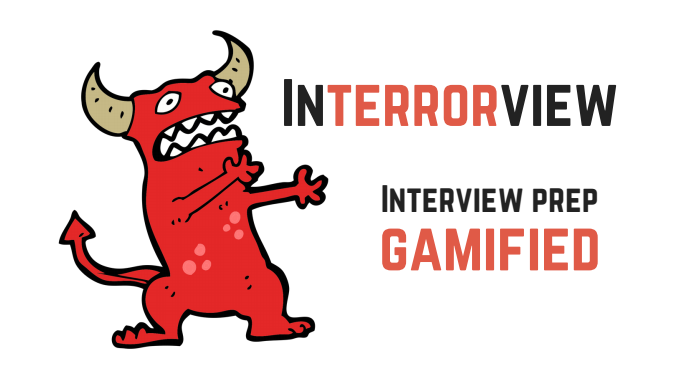
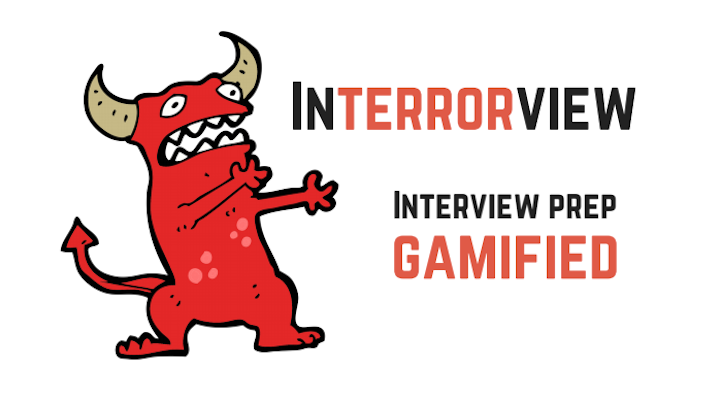
update

diff --git a/html/wmata.html b/html/wmata.html
@@ -45,7 +45,6 @@
 			<span></span>
 			<span></span>
 		</button>
-		<a href="index.html" class="logo"><img src="#" alt="photo of Lauryl Zenobi" /></a>
 		<a href="index.html" class="site-title dot ml-2">Lauryl Zenobi</a>
 	</div>
 
@@ -55,19 +54,18 @@
 			<span aria-hidden="true">&times;</span>
 		</button>
 		<div class="header-inner d-flex align-items-start flex-column">
-			<a href="index.html"><img src="#" alt="Photo of Lauryl Zenobi" /></a>
 			<a href="index.html" class="site-title dot mt-3">Lauryl Zenobi</a>
 			<span class="site-slogan">UX Researcher</span>
 			
 			<!-- navigation menu -->
 			<nav>
 				<ul class="vertical-menu scrollspy">
-					<li><a href="#home"><i class="icon-home"></i>About</a></li>
-					<li><a href="#experience"><i class="icon-badge"></i>Experience</a></li>
-					<li><a href="#resume"><i class="icon-briefcase"></i>Resume</a></li>
-					<li><a href="#works"><i class="icon-grid"></i>Porfolio</a></li>
-					<li><a href="#Book"><i class="icon-book-open"></i>"Book"</a></li>
-					<li><a href="#contact"><i class="icon-envelope"></i>Contact</a></li>
+					<li><a href="index.html#home"><i class="icon-home"></i>About</a></li>
+					<li><a href="index.html#experience"><i class="icon-badge"></i>Experience</a></li>
+					<li><a href="index.html#resume"><i class="icon-briefcase"></i>Resume</a></li>
+					<li><a href="index.html#works"><i class="icon-grid"></i>Porfolio</a></li>
+					<li><a href="index.html#Book"><i class="icon-book-open"></i>"Book"</a></li>
+					<li><a href="index.html#contact"><i class="icon-envelope"></i>Contact</a></li>
 				</ul>
 			</nav>
 			
@@ -101,7 +99,7 @@
             <div class="spacer" data-height="40"></div>
             
             <!-- portfolio image -->
-            <img src="https://via.placeholder.com/800x600" alt="WMATA">
+            <img src="https://github.com/laurylzenobi/laurylzenobi.github.io/blob/master/Images/WMATA/wmatabanner.png?raw=true" alt="WMATA">
 
             <!-- portfolio content -->
             <div class="portfolio-content mt-5">
@@ -122,7 +120,7 @@
              <p>As a team we conducted a thorough competitive analysis, and then reached consensus on two apps that could inspire solutions for our problem. Both apps, Chik-Fil-A and the Massachusetts Bay Transportation Authority (MBTA) allow users to add monetary value to a linked account. Chik-Fil-A follows a Starbucks model, where the user is able to transfer value via linked credit/debit card or bank account and use that balance to make in-app purchases at brick-and-mortar stores. According to our competitive analysis, MBTA’s app is the only transit app (official or otherwise) that allows users purchase tickets, despite the prevalence of transit-management/information apps on the market.</p>
      
               <!--Competitive analysis-->
-               <img src="https://github.com/laurylzenobi/laurylzenobi.github.io/blob/master/WMATA/competitiveanalysis.png?raw=true" class="img-responsive">
+               <img src="https://github.com/laurylzenobi/laurylzenobi.github.io/blob/master/Images/WMATA/competitiveanalysis.png?raw=true">
                     
            <p>Following the competitive analysis, we identified several areas in which we could improve upon existing app designs to create a WMATA transit app that is both useful and novel:</p>
                 <ul>
@@ -135,12 +133,12 @@
                     <p>When Naomi opens the WMATA app in the metro station, she is able to check her SmartTrip card balance and quickly add money if needed, all before she reaches the turnstiles.</p>
                     <p>Since Naomi needs a simple and quick app solution, we created a stream-lined user flow, with an emphasis on a minimalist interface and intuitive payment features.</p>
 
-                     <div class="col-xs-12"> <img src="https://github.com/laurylzenobi/laurylzenobi.github.io/blob/master/WMATA/WMATApersona.png?raw=true" class="img-responsive">
+                     <div class="col-xs-12"> <img src="https://github.com/laurylzenobi/laurylzenobi.github.io/blob/master/Images/WMATA/WMATApersona.png?raw=true">
             </div>
                     
            
             <div class="col-xs-12" style="margin: 40px 0 40px 20px">
-                <img src="https://github.com/laurylzenobi/laurylzenobi.github.io/blob/master/WMATA/WMATAuserflow.png?raw=true" class="img-responsive" style="margin:40px 0 40px 40px 40px">
+                <img src="https://github.com/laurylzenobi/laurylzenobi.github.io/blob/master/Images/WMATA/WMATAuserflow.png?raw=true" class="img-responsive" style="margin:40px 0 40px 40px 40px">
             </div>
           
 
@@ -149,7 +147,7 @@
 
                 <p>Using these guiding principles, our priorities were to create a simple home screen with clear call to actions that prioritized high impact/high value information like current balance. We also valued transparency and simplicity in the add-money process by giving the user the option to toggle back and forth to edit or cancel their payment, as well as providing a confirmation page and a page indicating that adding value to their card was successful. We felt this was an important trust-building feature, giving users confidence in the app.</p>
                 
-                <img src="https://github.com/laurylzenobi/laurylzenobi.github.io/blob/master/WMATA/WMATA_lofi.png?raw=true" class="img-responsive" style="margin-bottom:40px">
+                <img src="https://github.com/laurylzenobi/laurylzenobi.github.io/blob/master/Images/WMATA/WMATA_lofi.png?raw=true" class="img-responsive" style="margin-bottom:40px">
 
                <h4>Usability testing</h4> 
                 <p>We created an interactive low-fidelity prototype of our app using Marvel. </p>
@@ -158,16 +156,7 @@
 
                 <p>Overall, however, comments from testers demonstrated they felt our app was easy to use and highly functional in their daily lives.</p>
                 
-                <h4>Results</h4> 
-                <p>Drawing from our usability testing results and feedback from our mentors, I created a high-fidelity prototype using UXPin.</p> 
-                
-<!--prototype-->
-
-              <div class="row">
-                    <div class="col-xs-12">
-                        <img alt="" src="https://github.com/laurylzenobi/laurylzenobi.github.io/blob/master/WMATA/WMATA%20app.png?raw=true" class="img-responsive">  
-                    </div>
-            </div>
+               
 
         </div>   
             </div>

diff --git a/html/anthroguide.html b/html/anthroguide.html
@@ -45,7 +45,6 @@
 			<span></span>
 			<span></span>
 		</button>
-		<a href="index.html" class="logo"><img src="#" alt="photo of Lauryl Zenobi" /></a>
 		<a href="index.html" class="site-title dot ml-2">Lauryl Zenobi</a>
 	</div>
 
@@ -55,7 +54,6 @@
 			<span aria-hidden="true">&times;</span>
 		</button>
 		<div class="header-inner d-flex align-items-start flex-column">
-			<a href="index.html"><img src="#" alt="Photo of Lauryl Zenobi" /></a>
 			<a href="index.html" class="site-title dot mt-3">Lauryl Zenobi</a>
 			<span class="site-slogan">UX Researcher</span>
 			
@@ -101,7 +99,7 @@
             <div class="spacer" data-height="40"></div>
             
             <!-- portfolio image -->
-            <img src="https://via.placeholder.com/800x600" alt="AnthroGuide">
+            <img src="https://github.com/laurylzenobi/laurylzenobi.github.io/blob/master/Images/AnthroGuide/anthroguidebanner-tranparent.png?raw=true" alt="AnthroGuide">
 
             <!-- portfolio content -->
             <div class="portfolio-content mt-5">
@@ -127,7 +125,7 @@
      
                 <p>To get a base-line understanding IA's perception of the AnthroGuide, I conducted a survey of about 90 IA's. </p>
 
-                <img src="https://github.com/laurylzenobi/laurylzenobi.github.io/blob/master/AnthroGuide/survey.png?raw=true" class="img-responsive"/>
+                <img src="https://github.com/laurylzenobi/laurylzenobi.github.io/blob/master/Images/AnthroGuide/survey.png?raw=true">
 
                 <p>According to the survey there are two major problems: </p>
                 <ul>
@@ -200,19 +198,19 @@
                 <p>From the outset, I understood that this would be a long-term project. I decided to break up the Guide changes into several modules, each with a duration of one-two month timelines.
                 </p>
                     
-                    <img src="https://github.com/laurylzenobi/laurylzenobi.github.io/blob/master/AnthroGuide/projectplan.png?raw=true" class="img-responsive"/>
+                    <img src="https://github.com/laurylzenobi/laurylzenobi.github.io/blob/master/Images/AnthroGuide/projectplan.png?raw=true"/>
                
 <!--Persona-->  
   
                 <h4>Institutional persona</h4> 
                 <p>Based on the user surveys and phone interviews with IA's, I developed an institutional persona to help me focus the project on solving high priority issues.</p>
-                <img src="https://github.com/laurylzenobi/laurylzenobi.github.io/blob/master/AnthroGuide/ssu.png?raw=true" class="img-responsive"/>
+                <img src="https://github.com/laurylzenobi/laurylzenobi.github.io/blob/master/Images/AnthroGuide/ssu.png?raw=true"/>
 
                 <!--Modeling-->  
    				 <h4>Modeling</h4>
                 <p>It was critical to my Executive Board stakeholders that any changes to the Guide pricing structure needed to have a neutral revenue impact, at minimum. With this is mind, I iterated several pricing options and modeled the impacts each would have on revenue. After analyzing several years' worth of institutional demographics, I discovered that there is a significant correlation (0.95 p-value) between listing cost and number of faculty, regardless of type of institution (BA-granting vs. PhD-granting). I decided on a tiered flat fee system that averaged the listing cost of universities with x-number of faculty. I then created tiers that captured the majority of listers within a $100 price difference of their previous listing, to ensure that the new pricing was not hostile to IA's. </p>
                     
-                <img src="https://github.com/laurylzenobi/laurylzenobi.github.io/blob/master/AnthroGuide/model.png?raw=true" class="img-responsive"/>
+                <img src="https://github.com/laurylzenobi/laurylzenobi.github.io/blob/master/Images/AnthroGuide/model.png?raw=true"/>
         
                 <p>Assuming I could retain the same number of listers as the previous year, the new tiered pricing system models predicted that we could maintain similar revenue totals in the 2017-2018 cycle. Senior staff approved this new model. I was succesful in advocating for changes that would benefit our customers while meeting the association's business needs. </p>
 

diff --git a/html/interrorview.html b/html/interrorview.html
@@ -45,7 +45,6 @@
 			<span></span>
 			<span></span>
 		</button>
-		<a href="index.html" class="logo"><img src="#" alt="photo of Lauryl Zenobi" /></a>
 		<a href="index.html" class="site-title dot ml-2">Lauryl Zenobi</a>
 	</div>
 
@@ -55,19 +54,18 @@
 			<span aria-hidden="true">&times;</span>
 		</button>
 		<div class="header-inner d-flex align-items-start flex-column">
-			<a href="index.html"><img src="#" alt="Photo of Lauryl Zenobi" /></a>
 			<a href="index.html" class="site-title dot mt-3">Lauryl Zenobi</a>
 			<span class="site-slogan">UX Researcher</span>
 			
 			<!-- navigation menu -->
 			<nav>
 				<ul class="vertical-menu scrollspy">
-					<li><a href="#home"><i class="icon-home"></i>About</a></li>
-					<li><a href="#experience"><i class="icon-badge"></i>Experience</a></li>
-					<li><a href="#resume"><i class="icon-briefcase"></i>Resume</a></li>
-					<li><a href="#works"><i class="icon-grid"></i>Porfolio</a></li>
-					<li><a href="#Book"><i class="icon-book-open"></i>"Book"</a></li>
-					<li><a href="#contact"><i class="icon-envelope"></i>Contact</a></li>
+					<li><a href="index.html#home"><i class="icon-home"></i>About</a></li>
+					<li><a href="index.html#experience"><i class="icon-badge"></i>Experience</a></li>
+					<li><a href="index.html#resume"><i class="icon-briefcase"></i>Resume</a></li>
+					<li><a href="index.html#works"><i class="icon-grid"></i>Porfolio</a></li>
+					<li><a href="index.html#Book"><i class="icon-book-open"></i>"Book"</a></li>
+					<li><a href="index.html#contact"><i class="icon-envelope"></i>Contact</a></li>
 				</ul>
 			</nav>
 			
@@ -101,7 +99,7 @@
             <div class="spacer" data-height="40"></div>
             
             <!-- portfolio image -->
-            <img src="https://via.placeholder.com/800x600" alt="Interrorview">
+            <img src="https://github.com/laurylzenobi/laurylzenobi.github.io/blob/master/Images/Interroview/IVlaptop-phone.png?raw=true" alt="Interrorview">
 
             <!-- portfolio content -->
             <div class="portfolio-content mt-5">
@@ -140,7 +138,7 @@
                  Business model</h4> 
                <p>Our solution is intended as a web-based app that operates under a freemium model. We offer a free version of the app with limited features, but for a quarterly subscription plan a user would have access to a suite of feedback tools and analysis, and a full range of behavioral questions from which they could practice.  </p>
     
-                <img src="https://github.com/laurylzenobi/laurylzenobi.github.io/blob/master/Interroview/IV6.png?raw=true" style="margin-bottom:40px">
+                <img src="https://github.com/laurylzenobi/laurylzenobi.github.io/blob/master/Images/Interroview/IV6.png?raw=true" style="margin-bottom:40px">
         
            
             

diff --git a/html/index.html b/html/index.html
@@ -44,7 +44,6 @@
 			<span></span>
 			<span></span>
 		</button>
-		<a href="index.html" class="logo"><img src="https://github.com/laurylzenobi/laurylzenobi.github.io/blob/master/Images/profile.jpg?raw=true" alt="photo of Lauryl Zenobi" /></a>
 		<a href="index.html" class="site-title dot ml-2">Lauryl Zenobi</a>
 	</div>
 
@@ -54,7 +53,6 @@
 			<span aria-hidden="true">&times;</span>
 		</button>
 		<div class="header-inner d-flex align-items-start flex-column">
-			<a href="index.html"><img src="https://github.com/laurylzenobi/laurylzenobi.github.io/blob/master/profile.jpg?raw=true" alt="Photo of Lauryl Zenobi" /></a>
 			<a href="index.html" class="site-title dot mt-3">Lauryl Zenobi</a>
 			<span class="site-slogan">UX Researcher</span>
 			
@@ -90,7 +88,7 @@
 	<main class="content float-right">
 
 		<!-- section hero -->
-		<section class="hero background parallax shadow-dark d-flex align-items-center" id="home" data-image-src="#">
+		<section class="hero background parallax shadow-dark d-flex align-items-center" id="home" data-image-src="https://github.com/laurylzenobi/laurylzenobi.github.io/blob/master/Images/profile.jpg?raw=true">
 			<div class="cta mx-auto mt-2">
 				<h1 class="mt-0 mb-4">Hello!<span class="dot"></span></h1>
 				<p class="mb-4">I'm a UX researcher and anthropologist with a background in bringing human centered design to non-profit and government work. I bring a strong sense of compassion to my UX work. I'm a firm believer that people's needs are paramount, and there's always a better, more innovative way to meet those needs.</p>
@@ -275,6 +273,7 @@
 				</div>
 
 				<!-- portfolio item -->
+
 				<div class="col-md-4 col-sm-6 grid-item creative design">
 					<a href="wmata.html">
 						<div class="portfolio-item">
@@ -292,7 +291,7 @@
 
 				<!-- portfolio item -->
 				<div class="col-md-4 col-sm-6 grid-item branding">
-					<a href="interroview.html">
+					<a href="interrorview.html">
 						<div class="portfolio-item">
 							<div class="details">
 								<h4 class="title">Interrorview</h4>
@@ -330,7 +329,7 @@
 
 			<div class="row">
 				<div class="col-md-3">
-					<img src="https://via.placeholder.com/150x150" alt="about" />
+					<!--<img src="https://via.placeholder.com/150x150" alt="about" /> -->
 				</div>
 				<div class="col-md-9">
 					<h2 class="mt-4 mt-md-0 mb-4">I'm writing a book about how to become a user researcher. Join my mailing list to get book updates!  </h2>

diff --git a/html/css/style.css b/html/css/style.css
@@ -943,7 +943,7 @@ section.padding-60 {
   background: #4A63E7;
   left: 0;
   top: 0;
-  opacity: 0.9;
+  opacity: 0.5;
   height: 100%;
   position: absolute;
   width: 100%;
